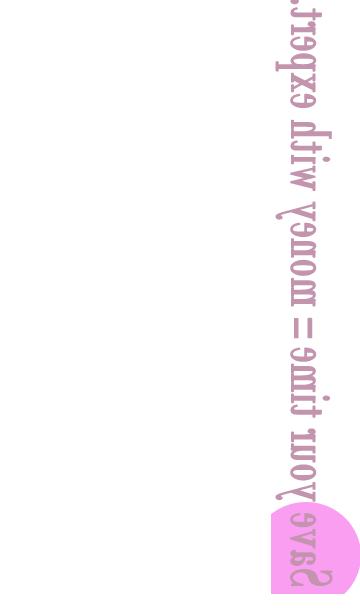
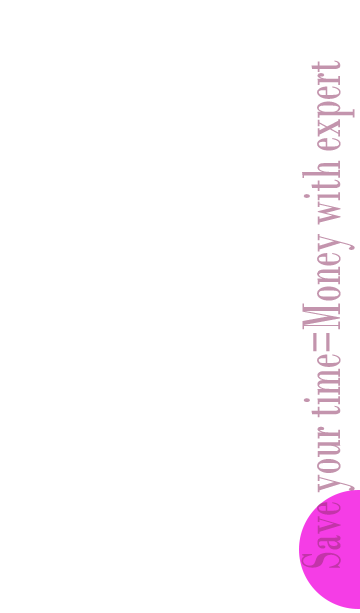
TKT Background Add

Changed region(s): [[0.7333, 0.0, 1.0, 1.0]]

diff --git a/style.css b/style.css
@@ -42,10 +42,11 @@ padding-left: 2%;
     margin-bottom: 100px;
 }
 
-.bottom-background{
+.tkt-background{
     background-image: url("images/button-background.png");
     background-repeat: no-repeat;
-    margin-bottom: 100px;    
+    margin-bottom: 100px;   
+    background-position: right; 
 }
 
 section{

diff --git a/index.html b/index.html
@@ -29,7 +29,7 @@
 
 
 
-<section>  
+<section class="tkt-background">  
     <div class="half-width-img-2">
       
         <img src="images/TKT Plotter.png"> </img>
